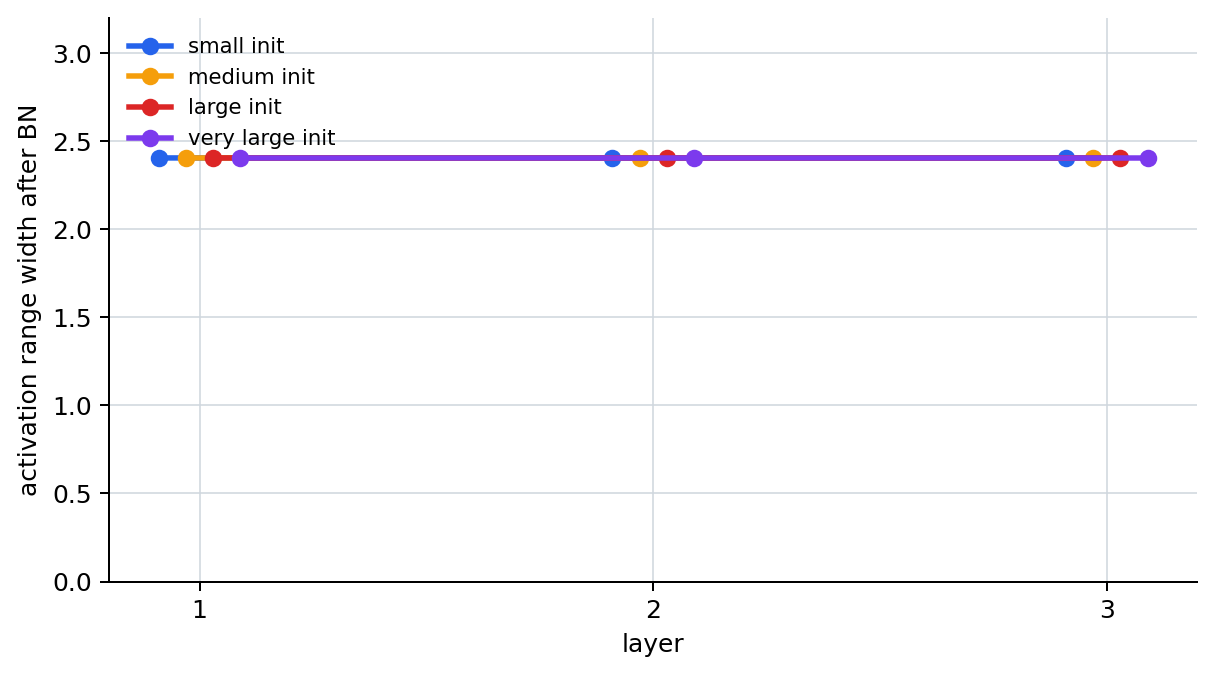
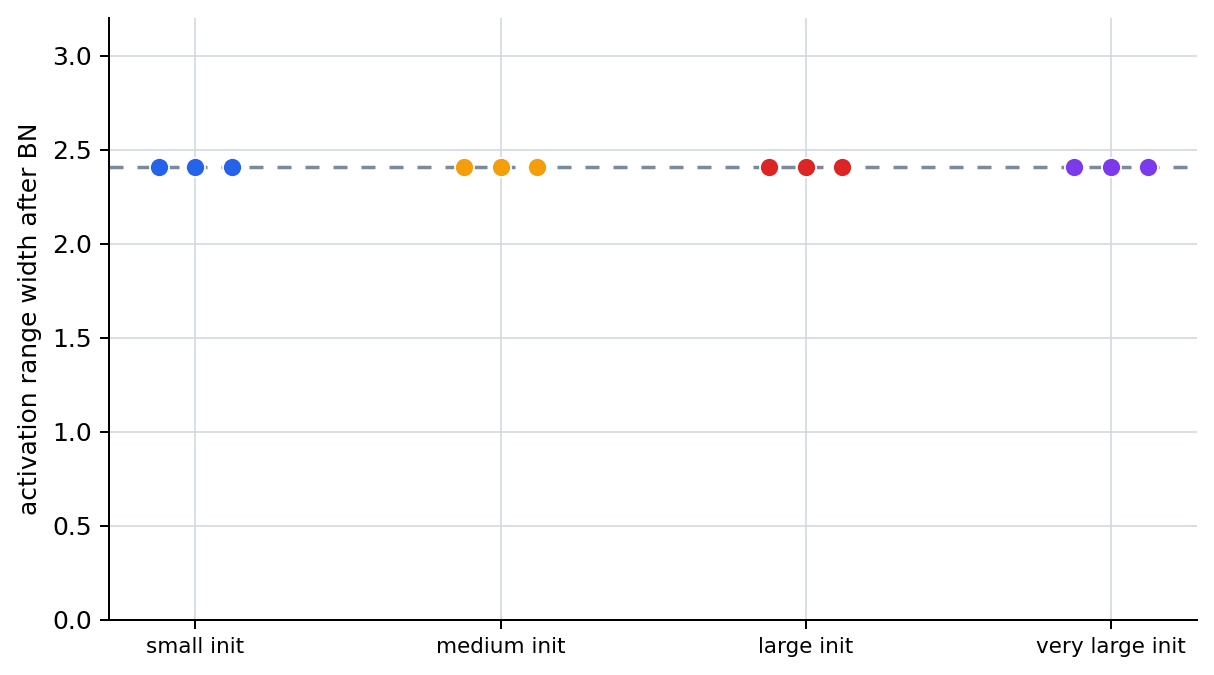
docs: refine P5 chapter 8 BN range chart

diff --git a/docs/assets/part-05/chapter-08/p5_8_4_deep_scale_charts.py b/docs/assets/part-05/chapter-08/p5_8_4_deep_scale_charts.py
@@ -147,20 +147,12 @@ def save_line_chart(text: dict[str, str], trace: dict, metric: str, ylabel: str,
         "large_init": "#dc2626",
         "very_large_init": "#7c3aed",
     }
-    x_offsets = {
-        "small_init": -0.09,
-        "medium_init": -0.03,
-        "large_init": 0.03,
-        "very_large_init": 0.09,
-    }
     fig, ax = plt.subplots(figsize=(6.8, 3.8), dpi=180)
     fig.patch.set_facecolor("white")
     ax.set_facecolor("white")
     style_axis(ax)
     for case_name, rows in trace.items():
         layers = [row["layer"] for row in rows]
-        if metric == "bn_range_width":
-            layers = [layer + x_offsets[case_name] for layer in layers]
         values = [row[metric] for row in rows]
         ax.plot(layers, values, marker="o", linewidth=2.2, color=colors[case_name], label=text[case_name])
     ax.set_xticks([1, 2, 3])
@@ -169,11 +161,43 @@ def save_line_chart(text: dict[str, str], trace: dict, metric: str, ylabel: str,
     if log_scale:
         ax.set_yscale("log")
         ax.yaxis.set_major_formatter(FuncFormatter(lambda value, _: f"{value:g}"))
-    if metric == "bn_range_width":
-        ax.set_ylim(0, 3.2)
     ax.legend(loc="upper left", frameon=False, fontsize=8.5)
     fig.tight_layout(pad=0.9)
     fig.savefig(OUT_DIR / outfile, bbox_inches="tight")
+    plt.close(fig)
+
+
+def save_bn_range_chart(text: dict[str, str], trace: dict) -> None:
+    configure_font(text)
+    colors = {
+        "small_init": "#2563eb",
+        "medium_init": "#f59e0b",
+        "large_init": "#dc2626",
+        "very_large_init": "#7c3aed",
+    }
+    layer_offsets = {1: -0.12, 2: 0.0, 3: 0.12}
+    case_positions = {case_name: index + 1 for index, case_name in enumerate(CASE_ORDER)}
+    all_values = [row["bn_range_width"] for rows in trace.values() for row in rows]
+    average_range = sum(all_values) / len(all_values)
+
+    fig, ax = plt.subplots(figsize=(6.8, 3.8), dpi=180)
+    fig.patch.set_facecolor("white")
+    ax.set_facecolor("white")
+    style_axis(ax)
+    ax.axhline(average_range, color="#64748b", linewidth=1.4, linestyle=(0, (4, 4)), alpha=0.85)
+
+    for case_name, rows in trace.items():
+        x = [case_positions[case_name] + layer_offsets[row["layer"]] for row in rows]
+        y = [row["bn_range_width"] for row in rows]
+        ax.scatter(x, y, s=58, color=colors[case_name], edgecolor="white", linewidth=0.7, zorder=3)
+
+    ax.set_xticks([case_positions[case_name] for case_name in CASE_ORDER])
+    ax.set_xticklabels([text[case_name] for case_name in CASE_ORDER], fontsize=8.6)
+    ax.set_xlabel("")
+    ax.set_ylabel(text["bn_range_ylabel"])
+    ax.set_ylim(0, 3.2)
+    fig.tight_layout(pad=0.9)
+    fig.savefig(OUT_DIR / text["bn_range_outfile"], bbox_inches="tight")
     plt.close(fig)
 
 
@@ -182,7 +206,7 @@ def main() -> None:
     for text in LANG_TEXT.values():
         save_line_chart(text, trace, "raw_range_width", text["raw_range_ylabel"], text["raw_range_outfile"], log_scale=True)
         save_line_chart(text, trace, "raw_variance", text["raw_variance_ylabel"], text["raw_variance_outfile"], log_scale=True)
-        save_line_chart(text, trace, "bn_range_width", text["bn_range_ylabel"], text["bn_range_outfile"])
+        save_bn_range_chart(text, trace)
 
 
 if __name__ == "__main__":

diff --git a/docs/parts/part-05/chapter-08/section-04.md b/docs/parts/part-05/chapter-08/section-04.md
@@ -151,7 +151,7 @@ layer 3: raw_range=(364.500, 1458.000), raw_variance=206671.500, after_bn_range=
 
 ![초기화 스케일별 층별 raw variance](../../../assets/part-05/chapter-08/deep-scale-raw-variance-ko.png)
 
-셋째 그래프는 각 층 뒤에 batch normalization을 적용한 뒤의 출력 범위입니다. raw activation은 케이스마다 크게 달라지지만, normalization 뒤의 범위는 `다음 층이 다루기 쉬운 비슷한 규모`로 다시 정리됩니다. 여기서 중요한 점은 `항상 똑같은 숫자로 고정된다`가 아니라, `입력 분포가 크게 달라도 중심과 퍼짐이 다시 비교 가능한 범위로 맞춰진다`는 쪽입니다. 이 장난감 예제에서 케이스별 범위가 거의 같게 보이는 이유는 세 샘플의 상대적 모양은 유지한 채 스케일만 바꾸고 있기 때문이며, 그래서 이 그림 하나만 보고 `batch normalization이 초기화 문제를 거의 지워 준다`고 읽으면 과합니다. 그래프도 미세한 차이를 확대하지 않고, 독자가 `거의 같은 범위로 모인다`는 사실을 먼저 보도록 y축을 넓게 잡았습니다.
+셋째 그래프는 각 층 뒤에 batch normalization을 적용한 뒤의 출력 범위입니다. raw activation은 케이스마다 크게 달라지지만, normalization 뒤의 범위는 `다음 층이 다루기 쉬운 비슷한 규모`로 다시 정리됩니다. 여기서 중요한 점은 `항상 똑같은 숫자로 고정된다`가 아니라, `입력 분포가 크게 달라도 중심과 퍼짐이 다시 비교 가능한 범위로 맞춰진다`는 쪽입니다. 이 장난감 예제에서 케이스별 범위가 거의 같게 보이는 이유는 세 샘플의 상대적 모양은 유지한 채 스케일만 바꾸고 있기 때문이며, 그래서 이 그림 하나만 보고 `batch normalization이 초기화 문제를 거의 지워 준다`고 읽으면 과합니다. 그래프도 변화 추적용 선 그래프가 아니라, 케이스별 점 비교로 두어 독자가 `거의 같은 범위로 모인다`는 사실을 먼저 보도록 했습니다.
 
 ![batch normalization 뒤 층별 activation 범위](../../../assets/part-05/chapter-08/deep-scale-bn-range-ko.png)
 

diff --git a/management/release-notes/sections/part-05/P5-8.4.md b/management/release-notes/sections/part-05/P5-8.4.md
@@ -7,7 +7,7 @@
 - 본문 반영 내용: 한국어판 Python 예제 첫 줄에는 CSV activation 로그 기반 초기화 스케일, raw range·variance, batch normalization 범위 정리 비교 목적을, 영어·중국어 간체판 Python 예제 첫 줄에는 기존 초기화 스케일과 batch normalization 장난감 비교 목적을 설명하는 주석을 추가했다.
 - 변경 이유: 기존 Python 예제는 Section 목적을 지지하지만 입력 활성값과 스케일 케이스가 코드 안에 고정되어 있어, 최근 Part 5 예제 기준처럼 데이터 자산과 실행 코드를 분리할 필요가 있었다. 또한 BN 뒤 범위 그래프의 y축이 미세 차이를 과하게 확대해 초심자에게 혼란을 줄 수 있었다.
 - 본문 반영: `deep-scale-activation-log.csv`를 추가하고, Python 예제가 36행 CSV를 읽어 케이스별·층별 raw range, raw variance, after BN range를 계산하도록 바꿨다. Section 메타데이터 형식도 현재 기준에 맞춰 정리했다.
-- 그래프 반영: `p5_8_4_deep_scale_charts.py`가 같은 CSV를 읽도록 바꾸고, BN range 그래프는 미세 차이 확대 대신 비슷한 범위로 정리된다는 점이 먼저 보이도록 y축을 넓게 잡아 재생성했다.
+- 그래프 반영: `p5_8_4_deep_scale_charts.py`가 같은 CSV를 읽도록 바꾸고, BN range 그래프는 변화 추적용 선 그래프가 아니라 케이스별 점 비교로 바꿔 비슷한 범위로 정리된다는 점이 먼저 보이도록 재생성했다.
 - 관련 자산: `docs/assets/part-05/chapter-08/deep-scale-activation-log.csv`, `docs/assets/part-05/chapter-08/p5_8_4_deep_scale_charts.py`, `docs/assets/part-05/chapter-08/deep-scale-raw-range-ko.png`, `docs/assets/part-05/chapter-08/deep-scale-raw-variance-ko.png`, `docs/assets/part-05/chapter-08/deep-scale-bn-range-ko.png`
 - 번역 동기화 메모: 한국어 원문 기준 Python 예제가 CSV 기반으로 바뀌었고, 차트 생성 스크립트 재실행으로 영문·중문 PNG도 같은 CSV 로그 구조와 BN y축 기준에 맞춰 갱신되었다. 향후 번역 시 입력 파일 설명과 BN 그래프 해석 문장을 함께 동기화해야 한다.
 
